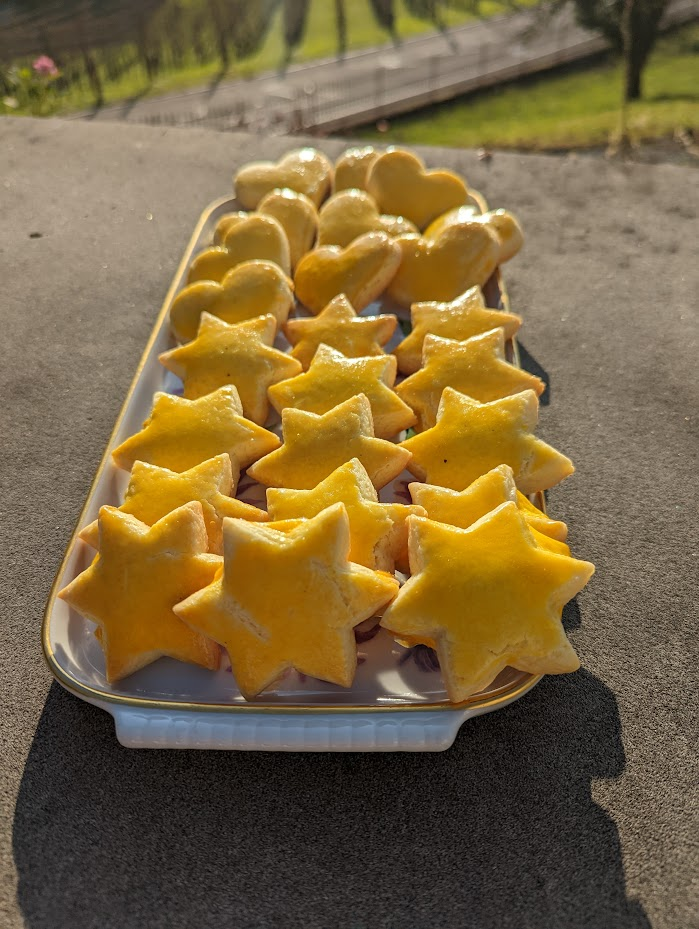
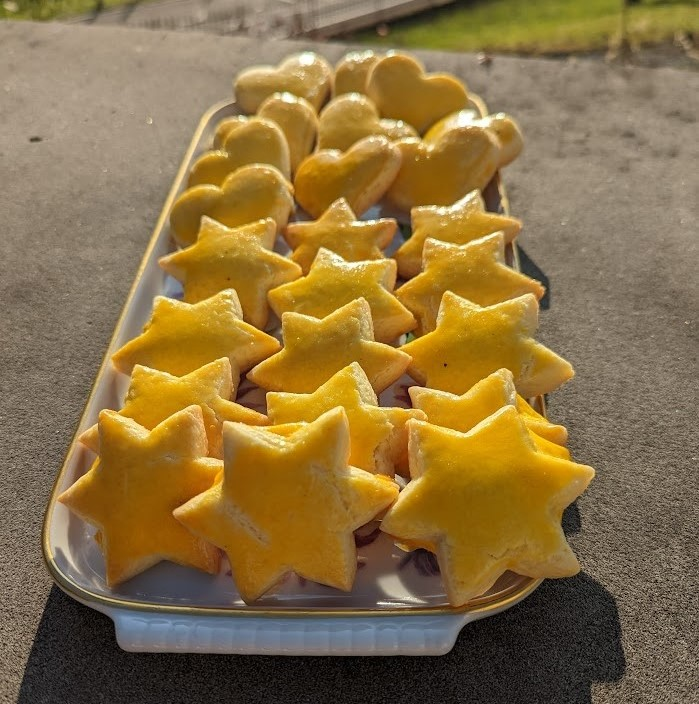
much more beautiful design

diff --git a/projectsWeb/BakingChallange/index.html b/projectsWeb/BakingChallange/index.html
@@ -7,14 +7,18 @@
     <meta name="viewport" content="width=device-width, initial-scale=1.0">
     <link href="https://cdn.jsdelivr.net/npm/bootstrap@5.2.3/dist/css/bootstrap.min.css" rel="stylesheet"
         integrity="sha384-rbsA2VBKQhggwzxH7pPCaAqO46MgnOM80zW1RWuH61DGLwZJEdK2Kadq2F9CUG65" crossorigin="anonymous">
+    <link rel="preconnect" href="https://fonts.googleapis.com">
+    <link rel="preconnect" href="https://fonts.gstatic.com" crossorigin>
+    <link href="https://fonts.googleapis.com/css2?family=Mountains+of+Christmas&display=swap" rel="stylesheet">
     <title>Document</title>
     <style>
         body {
             text-align: center;
+            font-family: 'Mountains of Christmas', cursive;
         }
 
-        img {
-            width: 40vw;
+        .topImg {
+            width: 100%;
         }
 
         .ingredients {
@@ -23,18 +27,20 @@
 
         .tableAmount,
         .tableText {
-            font-size: 20px;
+            font-size: 25px;
 
         }
 
         .tableAmount {
             text-align: left;
-            padding: 5px 10px;
             font-weight: bold;
+            padding: 5px 0px;
         }
 
         .tableText {
             text-align: left;
+            padding: 5px 40px;
+            color:#666666
         }
 
         .imgText {
@@ -43,6 +49,28 @@
 
         p {
             font-size: 20px;
+            color:#666666;
+        }
+
+        #footer {
+            color: black;
+            padding: 3vw 0vw 3vw 0vw;
+            width: 100%;
+            background-color: #e6e6e6;
+        }
+
+        #footer a {
+            color: #424241;
+            text-decoration: none;
+        }
+
+        #footer a:hover {
+            color: #b0b0b0;
+        }
+
+        #footer img {
+            width: 80px;
+            height: 80px;
         }
     </style>
 </head>
@@ -50,12 +78,13 @@
 <body>
     <br>
     <h1>The best "Mailänderli" in Town</h1>
+    <h5>By Valentin Nussbaumer</h5>
     <br>
     <div class="container">
         <div class="row">
-            <div class="col-md ingredients">
+            <div class="col-md-4 ingredients">
                 <h2>Ingredients</h2>
-                <select id="ingredientAmount" class="form-select" onchange="changeIngredients();">
+                <select id="ingredientAmount" style="width:auto;" class="form-select" onchange="changeIngredients();">
                     <option selected value="40">For 40 Mailänderli</option>
                     <option value="80">For 80 Mailänderli</option>
                     <option value="120">For 120 Mailänderli</option>
@@ -118,8 +147,8 @@
                     </tr>
                 </table>
             </div>
-            <div class="col-md img">
-                <img src="img/start.jpg">
+            <div class="col-md">
+                <img class="topImg" src="img/start.jpg">
             </div>
         </div>
     </div>
@@ -129,7 +158,7 @@
     <div class="image">
 
     </div>
-    <br>
+    <br><br>
     <h2>Instructions</h2>
 
     <div class="container">
@@ -225,18 +254,38 @@
                 <img class="imgText" src="img/backing.jpg">
             </div>
         </div>
-    </div>
-    <div class="row justify-content-center align-items-center">
-        <div class="col-4">
-            <img class="imgText" src="img/finish.jpg">
-        </div>
-        <div class="col-md">
-            <p>After 12-15 minutes the biscuits should look like this and now only the taste test is left.</p>
+        <br>
+        <div class="row justify-content-center align-items-center">
+            <div class="col-4">
+                <img class="imgText" src="img/finish.jpg">
+            </div>
+            <div class="col-md">
+                <p>After 12-15 minutes the biscuits should look like this and now only the taste test is left.</p>
+            </div>
         </div>
     </div>
     <br>
+    <br><br>
+
+    <div id="footer">
+        <a href="https://edu-chat.me"><img
+                src="https://valentin-bewerbung.com/media/Bildschirmfoto 2021-08-04 um 19.59.26.png"></a><br><br>
+        Valentin Nussbaumer AG <br>
+        Nussbaumer Str. 15 <br>
+        8888 Valentin City <br>
+        Switzerland <br>
+        <br>
+        Contact Person: <br>
+        Valentin Nussbaumer<br>
+        <a href="mailto: mail@valentin-nussbaumer.com">mail@valentin-nussbaumer.com</a><br><br>
+        Developed By <a href="https://valentin-nussbaumer.com">Valentin Nussbaumer</a><br>
+        Source Code: <a href="https://github.com/nussbaumerv/m431">Github</a><br><br><br>
+        Version: 1.000 - amles
+        <br>
 
 
+        &copy; Valentin Nussbaumer 2022 - All rights reserved <br>
+    </div>
 
     <script>
         function changeIngredients() {
